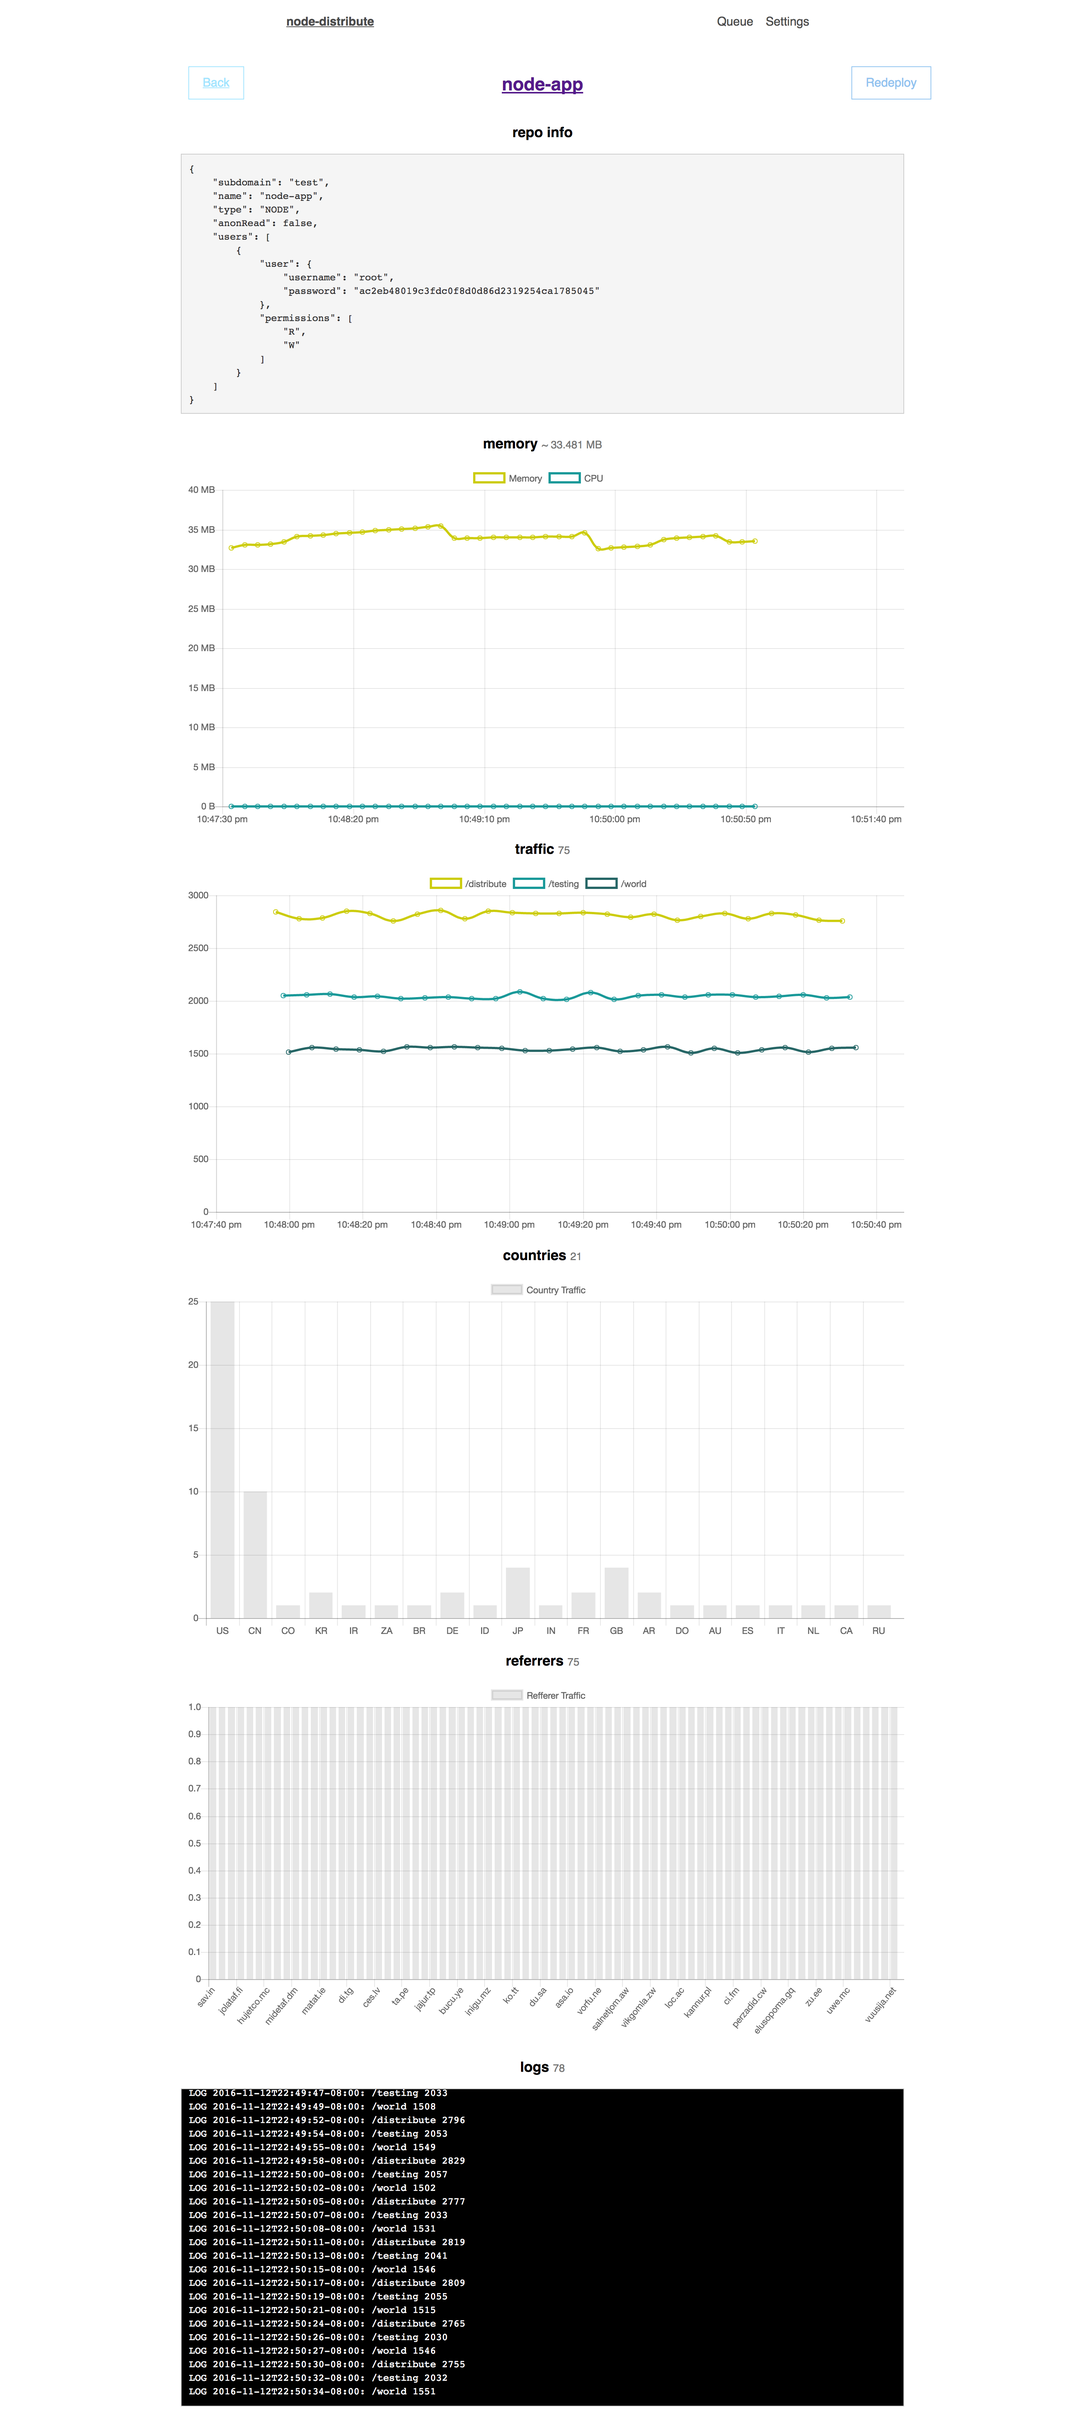
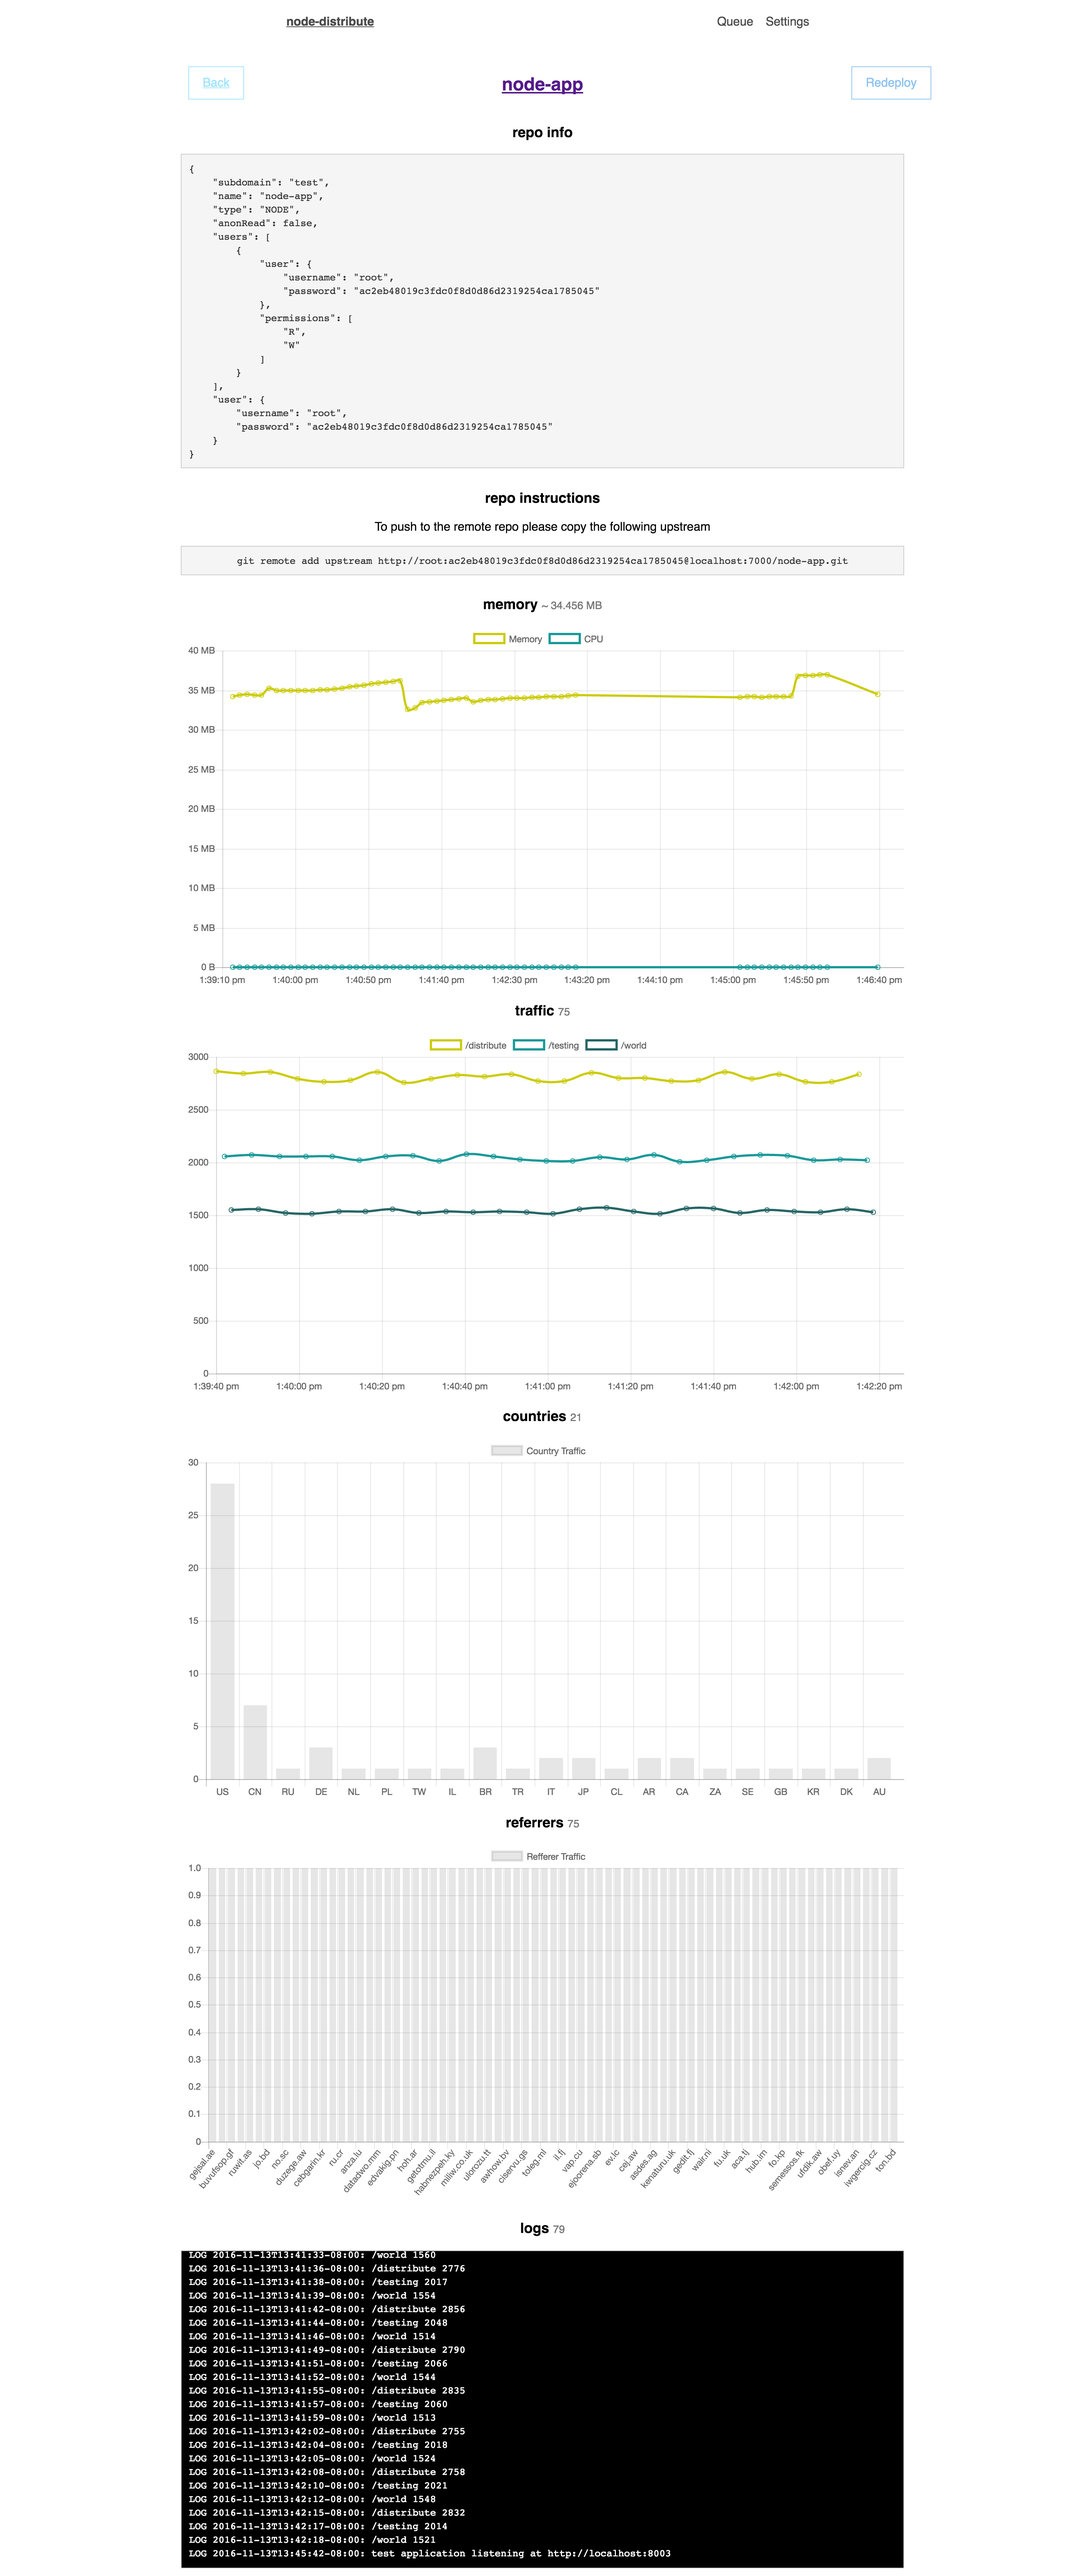
have instructions to how to push to repo on the admin portal for a specific application (#38)
* have instructions to how to push to repo on the admin portal for a specific application
quick copy paste of the add remote upstream options to push to repo

* updates repo get to return user object inside it if it isn't there

* updates readme to have non specific strings, just empty values

* removes user dependency in process

diff --git a/operations/views/admin/dist/app.js b/operations/views/admin/dist/app.js
@@ -179,6 +179,12 @@
 	                        </div>
 
 	                        <div class="col-12-12">
+	                            <h3>repo instructions</h3>
+	                            <p> To push to the remote repo please copy the following upstream </p>
+	                            <pre> git remote add upstream {{ remoteUpstream }} </pre>
+	                        </div>
+
+	                        <div class="col-12-12">
 	                            <h3>memory <small>~ {{ formatSize(currentMemory) }}</small></h3>
 	                            <canvas id="chart-memory"></canvas>
 	                        </div>
@@ -214,6 +220,7 @@
 	                    countries: {},
 	                    name: '',
 	                    url: '',
+	                    remoteUpstream: '',
 	                    deployed: true,
 	                    config: {},
 	                    charts: {
@@ -508,6 +515,7 @@
 	                            self.traffic = response.traffic;
 
 	                            self.url = window.location.protocol + '//' + (self.config.subdomain === '*' ? window.location.host.replace('admin.', '') : window.location.host.replace('admin', self.config.subdomain));
+	                            self.remoteUpstream = window.location.protocol + '//' + self.config.user.username + ':' + self.config.user.password + '@' + window.location.hostname.replace('admin.', '') + ':7000/' + self.config.name + '.git';
 
 	                            self.createCharts();
 	                        });

diff --git a/operations/views/admin/index.js b/operations/views/admin/index.js
@@ -133,6 +133,12 @@
                         </div>
 
                         <div class="col-12-12">
+                            <h3>repo instructions</h3>
+                            <p> To push to the remote repo please copy the following upstream </p>
+                            <pre> git remote add upstream {{ remoteUpstream }} </pre>
+                        </div>
+
+                        <div class="col-12-12">
                             <h3>memory <small>~ {{ formatSize(currentMemory) }}</small></h3>
                             <canvas id="chart-memory"></canvas>
                         </div>
@@ -168,6 +174,7 @@
                     countries: {},
                     name: '',
                     url: '',
+                    remoteUpstream: '',
                     deployed: true,
                     config: {},
                     charts: {
@@ -462,6 +469,7 @@
                             self.traffic = response.traffic;
 
                             self.url = window.location.protocol + '//' + (self.config.subdomain === '*' ? window.location.host.replace('admin.', '') : window.location.host.replace('admin', self.config.subdomain));
+                            self.remoteUpstream = window.location.protocol + '//' + self.config.user.username + ':' + self.config.user.password + '@' + window.location.hostname.replace('admin.', '') + ':7000/' + self.config.name + '.git';
 
                             self.createCharts();
                         });

diff --git a/operations/lib/repos.js b/operations/lib/repos.js
@@ -30,7 +30,7 @@ module.exports = {
      * @param  {Function} callback function(err) where err is the error from writeFile
      */
     update: function(config, callback) {
-        fs.writeFile(path.resolve(__dirname, '..', '..', 'config', 'repos.json'), JSON.stringify(config), function (err) {
+        fs.writeFile(path.resolve(__dirname, '..', '..', 'config', 'repos.json'), JSON.stringify(config), function(err) {
             if (err) {
                 callback(err);
             } else {
@@ -43,15 +43,21 @@ module.exports = {
             var found = {};
             repos = require('../../config/repos.json');
             repos.forEach(function(repo) {
-                if(repo.name == name) {
+                if (repo.name == name) {
                     found = repo;
+                    if (!found.user) {
+                        found.user = user.get();
+                    }
                 }
             });
             return _.omit(found, 'git_events', 'event');
         } else {
-          return repos.map(function(repo) {
-            return _.omit(repo, 'git_events', 'event');
-          });
+            return repos.map(function(repo) {
+                if (!repo.user) {
+                    repo.user = user.get();
+                }
+                return _.omit(repo, 'git_events', 'event');
+            });
         }
     }
 };

diff --git a/operations/startup-admin.js b/operations/startup-admin.js
@@ -159,7 +159,13 @@ module.exports = function() {
             }
         });
     });
-
+    app.get('/api/config/json', isAdminHost, isAuthenticated, function(req, res) {
+        var config = repos.get();
+        config = config.map(function(c) {
+            return _.omit(c, 'git_events', 'event', 'path', 'last_commit');
+        });
+        res.send(config);
+    });
     app.get('/api/process/:name/json', isAdminHost, isAuthenticated, function(req, res) {
         var name = req.params.name;
         var process = processes.get(name);
@@ -169,13 +175,6 @@ module.exports = function() {
             res.status(500);
             res.send();
         }
-    });
-    app.get('/api/config/json', isAdminHost, isAuthenticated, function(req, res) {
-        var config = repos.get();
-        config = config.map(function(c) {
-            return _.omit(c, 'git_events', 'event', 'path', 'last_commit');
-        });
-        res.send(config);
     });
     app.get('/api/process/json', isAdminHost, isAuthenticated, function(req, res) {
         res.send(processes.get());

diff --git a/README.md b/README.md
@@ -15,6 +15,10 @@
 - `npm install node-distribute -g`
 - `node-distribute start` // server will now be running
 
+> if you want to run this on port 80 use iptables to do the routing
+
+- `sudo iptables -t nat -A PREROUTING -i eth0 -p tcp --dport 80 -j REDIRECT --to-port 1337`
+
 ## Configuration
 
 > how to configure node-distribute
@@ -31,16 +35,16 @@
 ```javascript
 [
     {
-        "subdomain": "test", // test.location:1337
-        "name": "test", // the name of the repository
+        "subdomain": "...", // test.location:1337
+        "name": "...", // the name of the repository
         "type": String (NODE, STATIC) // the type of application
         "anonRead": false, // allow anonymous access
         "users": [ // array of users that are allowed to push to this repository
             // The default user will be whatever is in user.json with read and write permissions
             {
                 "user": {
-                    "username": "root",
-                    "password": "aaa6c4b09f5650ed2780e6210d785ff2c5223954"
+                    "username": "...",
+                    "password": "..."
                 },
                 "permissions": [
                     "R",
@@ -75,8 +79,8 @@
 
 ```javascript
 {
-    "username": "root",
-    "password": "aaa6c4b09f5650ed2780e6210d785ff2c5223954"
+    "username": "...",
+    "password": "..."
 }
 ```
 
